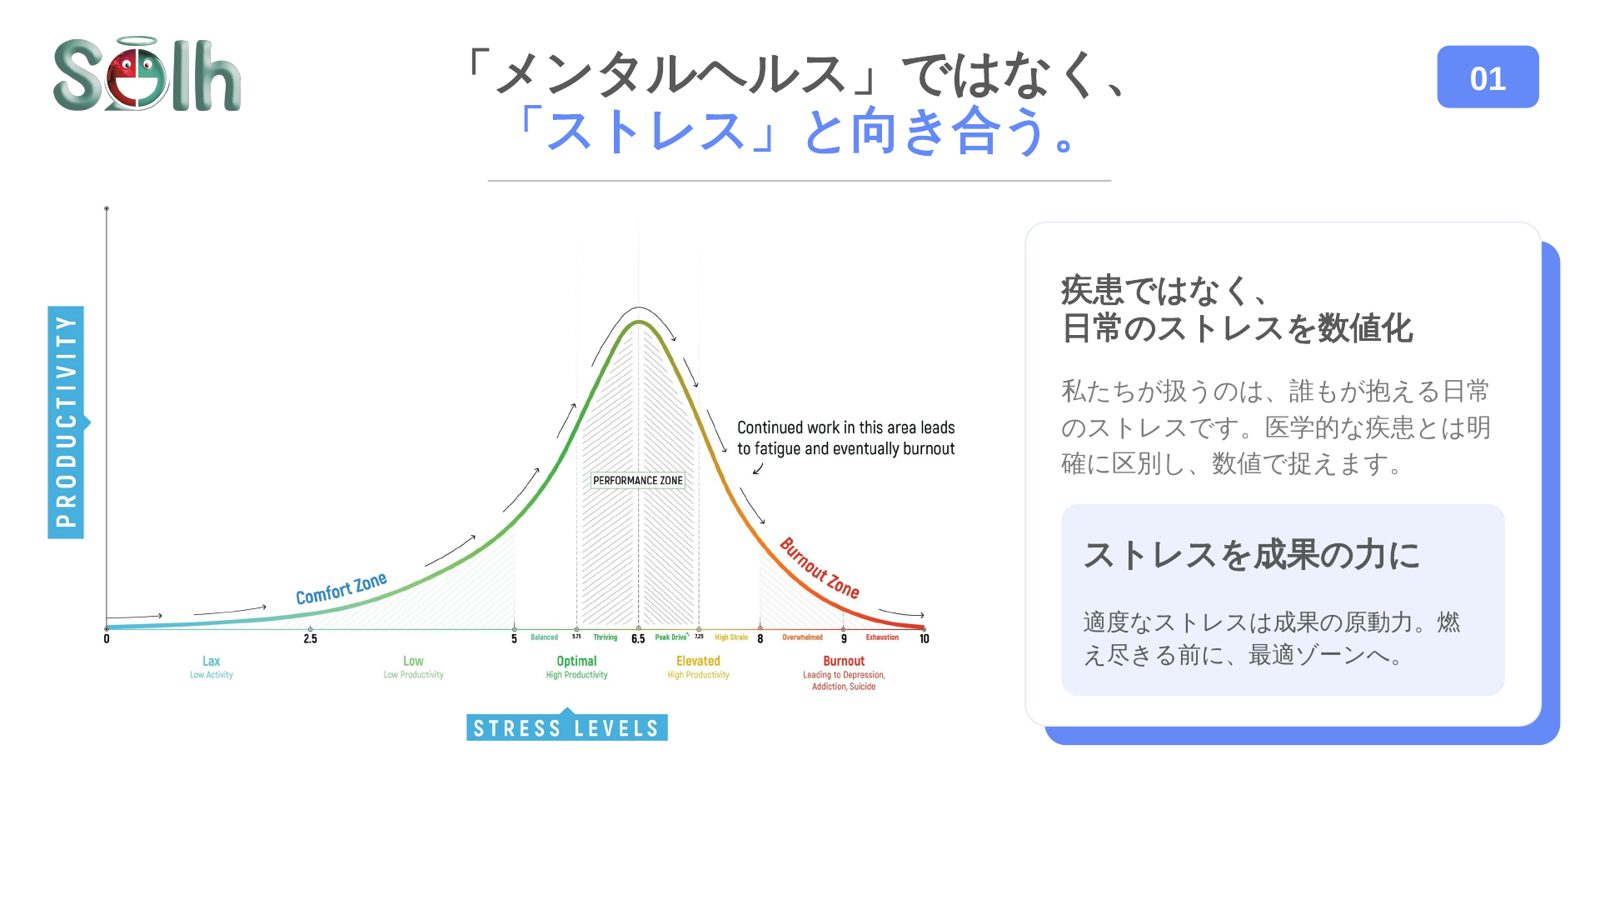
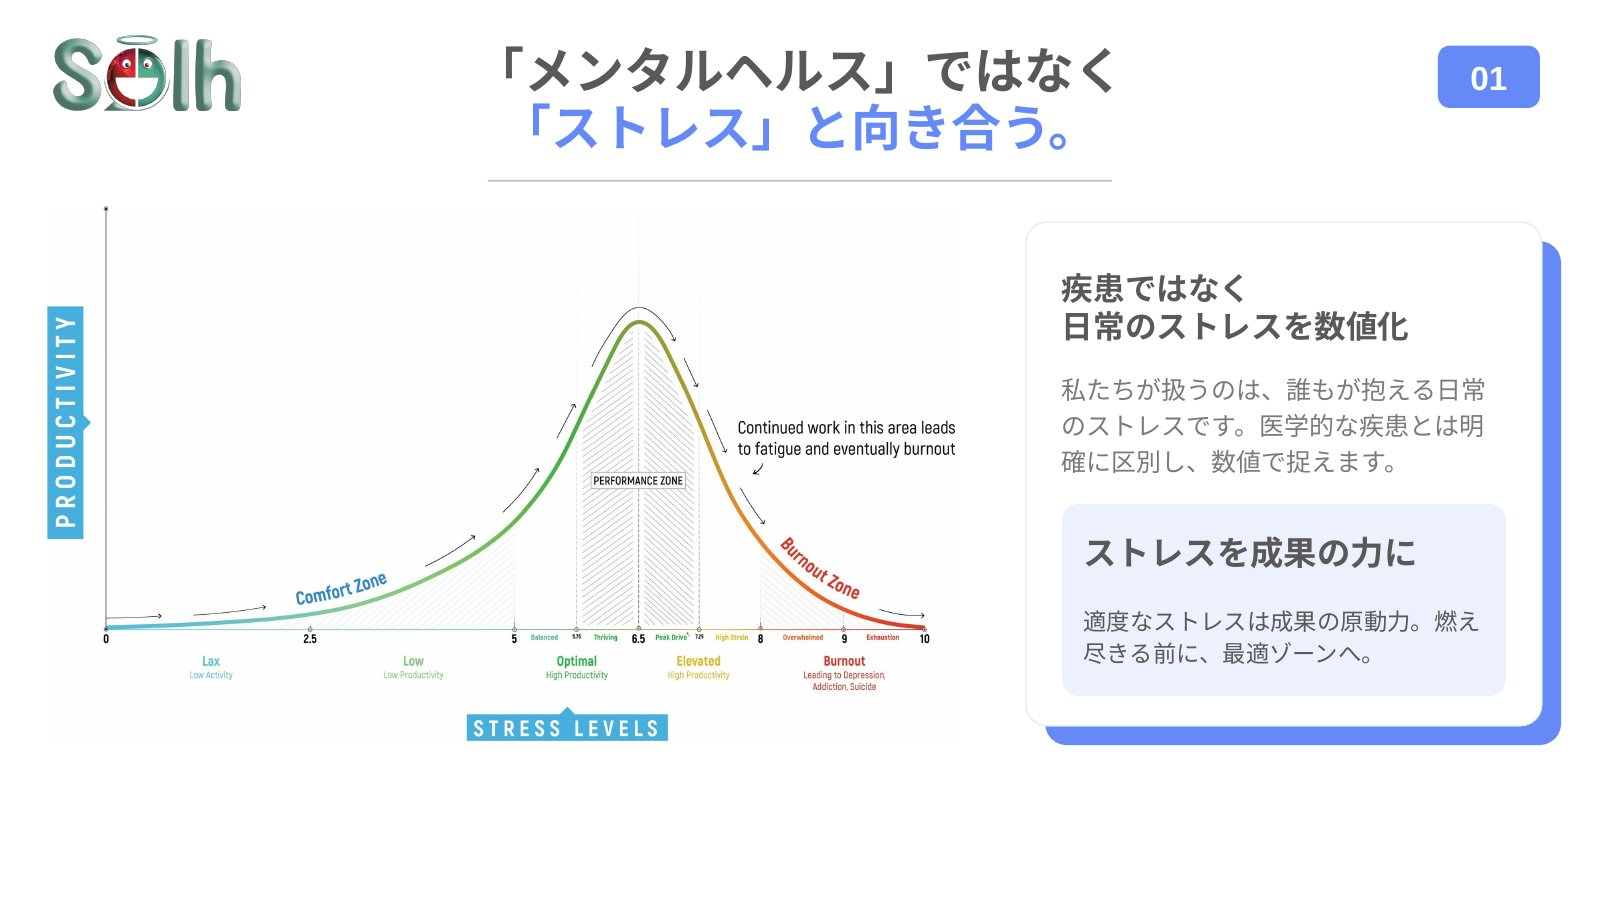
スライド画像と見出しをセミナー資料 v3 に差し替え（日本語フォント修正・見出しの読点削除）
Claude-Session: https://claude.ai/code/session_013aNrcMwiZ948vB8N8nQkbc

diff --git a/index.html b/index.html
@@ -91,13 +91,13 @@ footer{padding:28px 0 48px;color:var(--sub);font-size:13px}
 <header class="hero">
   <div class="wrap">
     <p class="eyebrow">Solh Wellness（インド）｜AI World 2026 秋 東京（幕張メッセ、2026年11月4日〜6日）出展</p>
-    <h1>人と組織に、折れない強さを。<br>10秒、カメラを見るだけのストレスチェック。</h1>
+    <h1>人と組織に折れない強さを。<br>カメラを見るだけで10秒のストレスチェック。</h1>
     <p class="lead">Streffie（ストレフィ）は、表情の画像からストレスの傾向をAIが推定するウェルネス体験です。結果はその場で、1〜10のスコアで表示されます。</p>
     <div class="cta">
       <a class="btn primary" href="#contact">オンライン説明を相談する</a>
       <a class="btn ghost" href="#slides">セミナー資料を見る</a>
     </div>
-    <div class="hero-figure"><img src="slides/01.jpg" width="1600" height="900" alt="Solh の表紙スライド。人と組織に、折れない強さを。"></div>
+    <div class="hero-figure"><img src="slides/01.jpg" width="1600" height="900" alt="Solh の表紙スライド。人と組織に折れない強さを。"></div>
   </div>
 </header>
 
@@ -119,7 +119,7 @@ footer{padding:28px 0 48px;color:var(--sub);font-size:13px}
 <section id="why">
   <div class="wrap">
     <span class="kicker">なぜ今</span>
-    <h2>社員の「燃え尽き」では終わらない。<br><em>揺らいでいるのは、会社の土台です。</em></h2>
+    <h2>社員の「燃え尽き」では終わらない。<br><em>揺らいでいるのは会社の土台です。</em></h2>
     <p class="sub">福利厚生ではなく、経営リスクの問題です。ストレスの見えない代償は、日本でも世界でも大きくなっています。</p>
     <div class="stats">
       <div class="stat"><span class="tag jp">日本</span><div class="num jp">68.3%</div><div class="lbl">仕事に強いストレスを感じている日本の働く人</div></div>
@@ -137,8 +137,8 @@ footer{padding:28px 0 48px;color:var(--sub);font-size:13px}
   <div class="wrap split">
     <div>
       <span class="kicker">01</span>
-      <h2>「メンタルヘルス」ではなく、<br><em>「ストレス」と向き合う。</em></h2>
-      <h3>疾患ではなく、日常のストレスを数値化</h3>
+      <h2>「メンタルヘルス」ではなく<br><em>「ストレス」と向き合う。</em></h2>
+      <h3>疾患ではなく日常のストレスを数値化</h3>
       <p>扱うのは、誰もが抱える日常のストレスです。医学的な疾患とは明確に区別し、数値で捉えます。</p>
       <h3>ストレスを成果の力に</h3>
       <p>適度なストレスは成果の原動力です。燃え尽きる前に、最適なゾーンへ戻すことを目指します。</p>
@@ -151,7 +151,7 @@ footer{padding:28px 0 48px;color:var(--sub);font-size:13px}
   <div class="wrap split rev">
     <div>
       <span class="kicker">02 STREFFIE</span>
-      <h2>見えないものは、改善できない。<br><em>だから「10秒」で見える化する。</em></h2>
+      <h2>見えないものは改善できない。<br><em>だから「10秒」で見える化する。</em></h2>
       <ul class="points purple">
         <li><b>カメラを見るだけ</b>ウェアラブルや専用機器は不要です。</li>
         <li><b>その場でスコア化</b>ストレスの状態を1〜10で表示します。</li>
@@ -167,7 +167,7 @@ footer{padding:28px 0 48px;color:var(--sub);font-size:13px}
 <section id="eco">
   <div class="wrap">
     <span class="kicker">03</span>
-    <h2>必要なのは「単発の施策」ではなく、<br><em>継続的に支える「エコシステム」です。</em></h2>
+    <h2>必要なのは「単発の施策」ではなく<br><em>継続的に支える「エコシステム」です。</em></h2>
     <div class="eco">
       <div class="card"><div class="role">気づく</div><h3>Streffie</h3><p>10秒で終わるAIストレスチェック。</p></div>
       <div class="card"><div class="role">寄り添う</div><h3>Solh Buddy</h3><p>24時間365日、気持ちの振り返りを手伝うAIの話し相手。緊急時の相談窓口の代わりではありません。</p></div>
@@ -239,14 +239,14 @@ footer{padding:28px 0 48px;color:var(--sub);font-size:13px}
     <h2>AI World 2026 セミナー資料（日本語版）</h2>
     <p class="sub">11/5 のセミナーでお見せしたスライドです。画像を押すと大きく表示されます。</p>
     <div class="gallery">
-      <figure><a href="slides/01.jpg"><img src="slides/01.jpg" width="1600" height="900" loading="lazy" alt="スライド1 表紙"></a><figcaption>1. 人と組織に、折れない強さを。</figcaption></figure>
-      <figure><a href="slides/02.jpg"><img src="slides/02.jpg" width="1600" height="900" loading="lazy" alt="スライド2 揺らいでいるのは会社の土台"></a><figcaption>2. 揺らいでいるのは、会社の土台です。</figcaption></figure>
+      <figure><a href="slides/01.jpg"><img src="slides/01.jpg" width="1600" height="900" loading="lazy" alt="スライド1 表紙"></a><figcaption>1. 人と組織に折れない強さを。</figcaption></figure>
+      <figure><a href="slides/02.jpg"><img src="slides/02.jpg" width="1600" height="900" loading="lazy" alt="スライド2 揺らいでいるのは会社の土台"></a><figcaption>2. 揺らいでいるのは会社の土台です。</figcaption></figure>
       <figure><a href="slides/03.jpg"><img src="slides/03.jpg" width="1600" height="900" loading="lazy" alt="スライド3 ストレスの見えない代償"></a><figcaption>3. ストレスの見えない代償</figcaption></figure>
       <figure><a href="slides/04.jpg"><img src="slides/04.jpg" width="1600" height="900" loading="lazy" alt="スライド4 ストレスと向き合う"></a><figcaption>4. 「ストレス」と向き合う</figcaption></figure>
       <figure><a href="slides/05.jpg"><img src="slides/05.jpg" width="1600" height="900" loading="lazy" alt="スライド5 Streffie"></a><figcaption>5. 10秒で見える化する（Streffie）</figcaption></figure>
       <figure><a href="slides/06.jpg"><img src="slides/06.jpg" width="1600" height="900" loading="lazy" alt="スライド6 エコシステム"></a><figcaption>6. 継続的に支えるエコシステム</figcaption></figure>
       <figure><a href="slides/07.jpg"><img src="slides/07.jpg" width="1600" height="900" loading="lazy" alt="スライド7 悪習慣・依存と睡眠不調"></a><figcaption>7. 悪習慣・依存と睡眠不調にも対応</figcaption></figure>
-      <figure><a href="slides/08.jpg"><img src="slides/08.jpg" width="1600" height="900" loading="lazy" alt="スライド8 まずは10秒、ストレスチェックを"></a><figcaption>8. まずは10秒、ストレスチェックを。</figcaption></figure>
+      <figure><a href="slides/08.jpg"><img src="slides/08.jpg" width="1600" height="900" loading="lazy" alt="スライド8 まずはブースで10秒のストレスチェックを"></a><figcaption>8. まずはブースで10秒のストレスチェックを。</figcaption></figure>
     </div>
   </div>
 </section>
